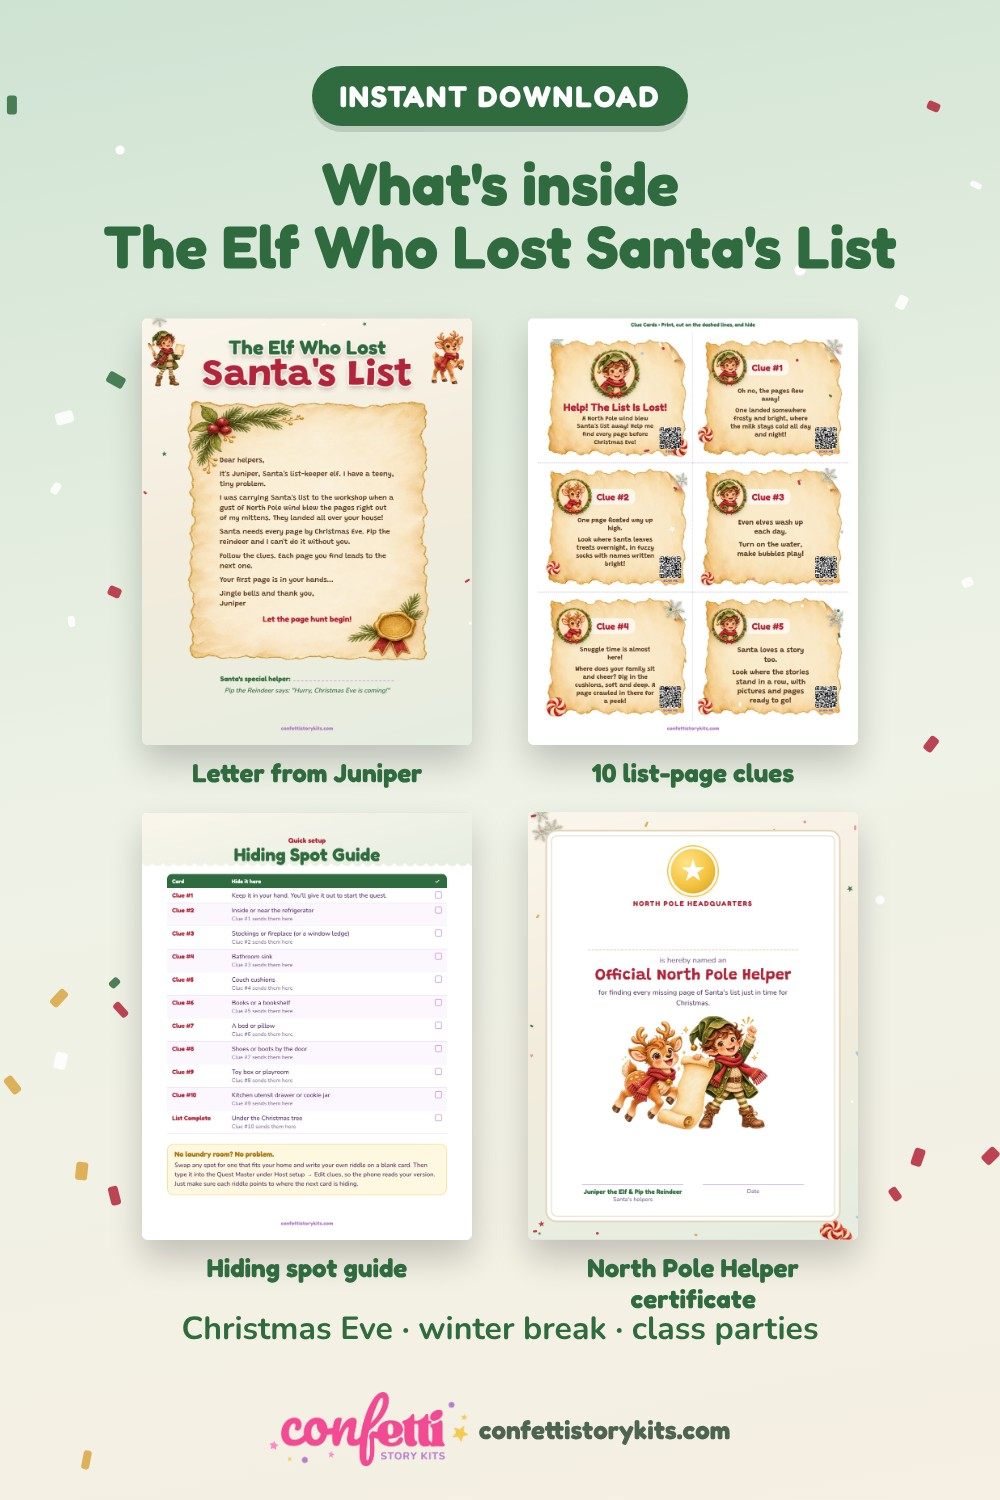
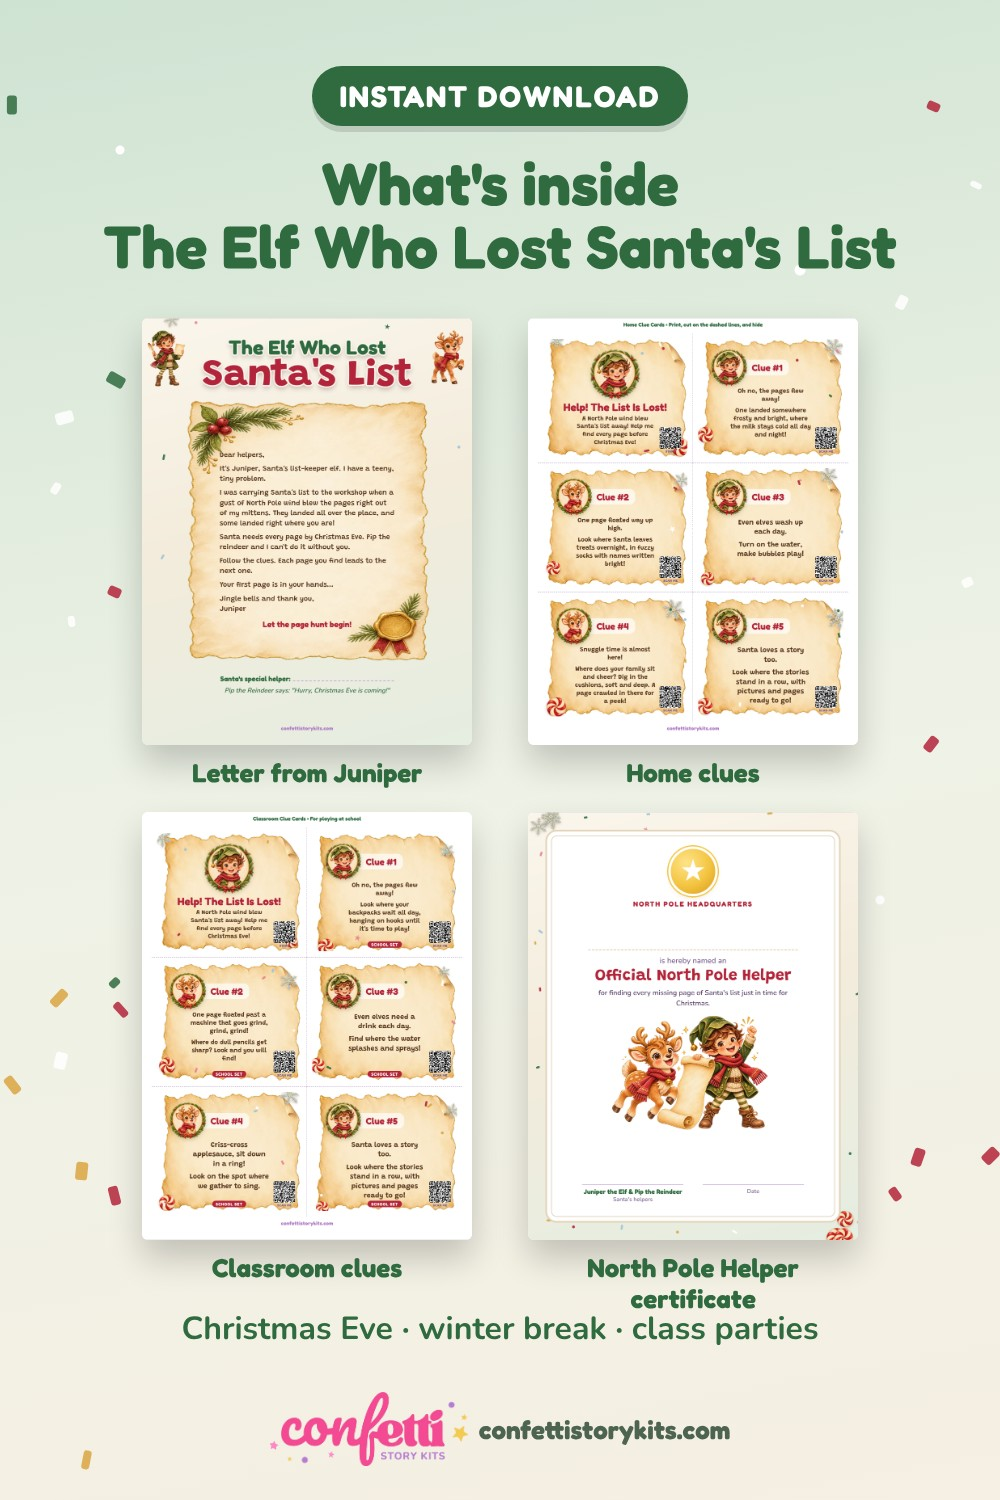
Christmas kit: home or classroom play mode with classroom clue set
Claude-Session: https://claude.ai/code/session_015FhWwA1v4xv3Fp1qX86Ebf

diff --git a/assets/js/engine.js b/assets/js/engine.js
@@ -206,11 +206,37 @@
   }
 
   /* ---------- Screens ---------- */
+  /* ---------- Play modes (e.g. home / classroom): a variant overrides clues, intro, setup and voice ---------- */
+  function applyMode(m) {
+    const b = quest._base, v = (b.variants || {})[m];
+    quest.steps = b.steps; quest.intro = b.intro; quest.setup = b.setup; quest.voice = b.voice;
+    if (!v) return;
+    quest.steps = b.steps.map(st => Object.assign({}, st, (v.steps || []).find(x => x.n === st.n) || {}));
+    if (v.intro) quest.intro = Object.assign({}, b.intro, v.intro);
+    if (v.setup) quest.setup = Object.assign({}, b.setup, v.setup);
+    if (b.voice) {
+      const vv = v.voice || {};
+      quest.voice = Object.assign({}, b.voice, { steps: vv.steps || {}, intro: vv.intro || (v.intro ? null : b.voice.intro) });
+    }
+  }
+  function modePicker() {
+    const vs = quest._base.variants; if (!vs) return null;
+    const cur = state.mode || "home";
+    const opts = [["home", "🏠 At home"]].concat(Object.entries(vs).map(([k, v]) => [k, v.label || k]));
+    return h("div", { class: "card panel" },
+      h("h2", {}, "Where are you playing?"),
+      h("div", { class: "modepick" }, opts.map(([k, label]) => h("button", {
+        class: "btn small " + (k === cur ? "" : "secondary"), "aria-pressed": String(k === cur),
+        onclick: () => { state.mode = k; save(); applyMode(k); sfx.tap(); render(); } }, label))),
+      h("p", { class: "note" }, "Each place has its own set of printed clue cards. Use the set that matches."));
+  }
+
   function renderSetup() {
     const s = quest.setup;
     const input = h("input", { class: "text", id: "name", type: "text", autocomplete: "off", maxlength: "24", placeholder: s.namePlaceholder, value: state.name || "" });
     return h("section", { class: "screen" },
       h("img", { class: "title-art", src: asset(quest.titleArt), alt: quest.title }),
+      modePicker(),
       h("div", { class: "card panel" },
         h("h2", {}, "Host setup"),
         h("label", { class: "field", for: "name" }, s.nameLabel),
@@ -329,7 +355,7 @@
       h("label", { class: "field" }, "Jump to"), jump,
       h("div", { class: "row", style: "margin:14px 0" },
         h("button", { class: "btn small", onclick: () => { const v = jump.value; dlg.close(); go(isNaN(v) ? v : +v); } }, "Go"),
-        h("button", { class: "btn secondary small", onclick: () => { dlg.close(); state = { name: state.name, custom: state.custom, step: "setup" }; go("setup"); } }, "Restart")),
+        h("button", { class: "btn secondary small", onclick: () => { dlg.close(); state = { name: state.name, custom: state.custom, mode: state.mode, step: "setup" }; go("setup"); } }, "Restart")),
       h("details", {}, h("summary", { style: "cursor:pointer;font-weight:700" }, "Hiding spot guide"),
         h("ul", { style: "padding-left:20px;line-height:1.6" },
           h("li", {}, h("b", {}, "Clue #1: "), "keep in your hand to start"),
@@ -391,6 +417,10 @@
     .then(r => { if (!r.ok) throw new Error(r.status); return r.json(); })
     .then(async q => {
       quest = q;
+      quest._base = JSON.parse(JSON.stringify(q));
+      const mParam = params.get("m");
+      if (mParam && ((q.variants || {})[mParam] || mParam === "home")) { state.mode = mParam; save(); }
+      applyMode(state.mode || "home");
       if (!(await hasAccess(q))) { applyTheme(q.theme); document.title = q.title; history.replaceState(null, "", `?q=${questId}`); renderLocked(q); return; }
       document.title = `${q.title} | Quest Master`;
       applyTheme(q.theme);
@@ -399,7 +429,7 @@
       if (cParam === "end" || (jumpTo && q.steps.some(s => s.n === jumpTo))) {
         state.step = cParam === "end" ? "done" : jumpTo; save();
       }
-      if (cParam || params.get("k")) history.replaceState(null, "", `?q=${questId}`);
+      if (cParam || params.get("k") || params.get("m")) history.replaceState(null, "", `?q=${questId}`);
       render();
     })
     .catch(() => {

diff --git a/kits/elf-santas-list/index.html b/kits/elf-santas-list/index.html
@@ -39,7 +39,7 @@
     </div></div>
     <div class="wrap">
     <div class="kitcols">
-      <section class="card panel"><h2>What's included</h2><ul><li>Letter from Juniper the Elf</li><li>10 clue cards styled as Santa&#x27;s torn list pages</li><li>Quest Master on your phone: reads the clues, gives hints, throws the confetti</li><li>Blank pages for your own hiding spots</li><li>North Pole Helper certificate</li><li>Setup guide and hiding spot checklist</li><li>Party tips</li></ul></section>
+      <section class="card panel"><h2>What's included</h2><ul><li>Letter from Juniper the Elf</li><li>Two clue sets: 10 for home, 10 for the classroom</li><li>Quest Master on your phone: reads the clues, gives hints, throws the confetti</li><li>Blank pages for your own hiding spots</li><li>North Pole Helper certificate</li><li>Setup guide and hiding spot checklist</li><li>Party tips</li></ul></section>
       <section class="card panel"><h2>Where the clues hide</h2><p>Every room is a stop on the trail. The checklist covers spots like:</p><ul><li>Inside or near the refrigerator</li><li>Stockings or fireplace (or a window ledge)</li><li>Bathroom sink</li><li>Couch cushions</li><li>Books or a bookshelf</li><li>A bed or pillow</li><li>Shoes or boots by the door</li><li>Toy box or playroom</li><li>Kitchen utensil drawer or cookie jar</li><li>Under the Christmas tree</li></ul>
         <p class="note">No laundry room? Use a blank card and type your own clue into the Quest Master.</p></section>
     </div>

diff --git a/assets/css/site.css b/assets/css/site.css
@@ -413,3 +413,4 @@ body { background: #fff9fd; }
 .voicebtn img { width: 46px; height: 46px; object-fit: contain; border-radius: 50%; }
 .voicebtn:hover { transform: translateY(-2px); box-shadow: 0 6px 16px rgba(0,0,0,.08); }
 .voicebtn.playing { background: var(--k1, #6b3fa0); color: #fff; border-color: transparent; }
+.modepick { display: flex; gap: 10px; flex-wrap: wrap; } .modepick .btn { flex: 1 1 140px; }
